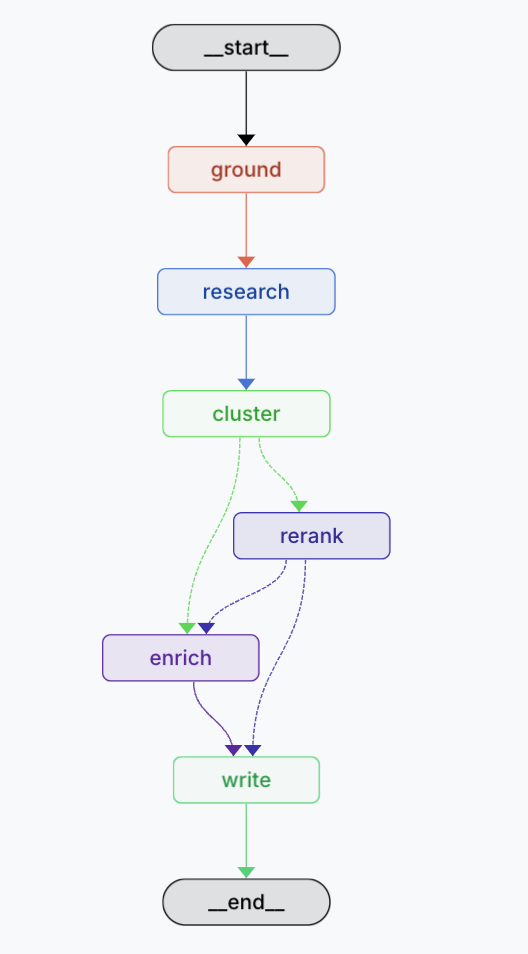
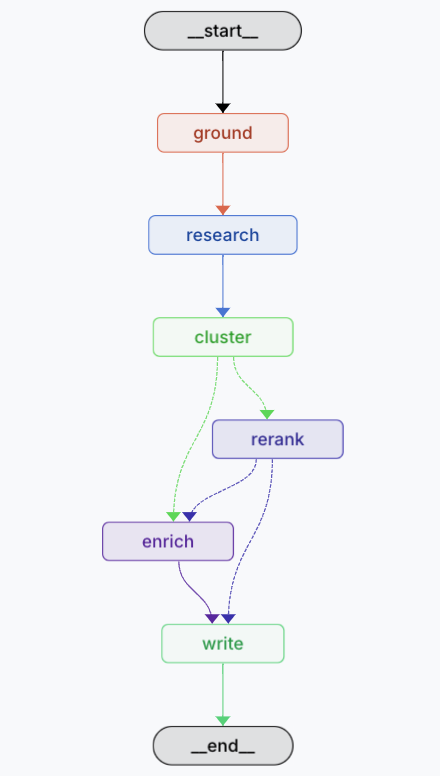
imporve tavily's search arguments description

diff --git a/src/company_researcher/utils/tavily_utils.py b/src/company_researcher/utils/tavily_utils.py
@@ -8,14 +8,14 @@ cfg = Config()
 
 # Define Tavily's arguments to tailor the search results
 class TavilyQuery(BaseModel):
-    query: str = Field(description="web search query")
-    search_depth: str = Field(description="the depth of the search, available options: 'basic', 'advanced'")
-    time_range:  Optional[str] = Field(default=None, description="time range back from the current date to filter results, available options: 'day', 'week', 'month', 'year'")
+    query: str = Field(description="Web search query")
+    search_depth: str = Field(description="The depth of the search, available options: 'basic', 'advanced'")
+    time_range:  Optional[str] = Field(default=None, description="(Optional) Filters results by time range, useful when looking for sources like magazines and articles. Available options: 'day', 'week', 'month', 'year'.")
     include_domains: Optional[List[str]] = Field(default=None,
-                                         description="list of domains to include in the research. Useful when trying to gather information from trusted and relevant domains")
+                                         description="List of domains to include in the research. Useful when trying to gather information from trusted and relevant domains")
 
 class TavilySearchInput(BaseModel):
-    sub_queries: List[TavilyQuery] = Field(description="set of web search queries that can be answered in isolation")
+    sub_queries: List[TavilyQuery] = Field(description="Set of web search queries that can be answered in isolation")
 
 
 class Tavily:

diff --git a/README.md b/README.md
@@ -5,9 +5,13 @@ This agent automates company research by leveraging Tavily to retrieve accurate,
 ## Key Steps
 
 1. **🔗 Grounding**: Establishes the website URL as a trusted baseline for all research efforts.
-2. **🔎 Searching**: Collects a wide range of relevant data from various online sources.  
+2. **🔎 Searching**: Collects a wide range of relevant data from various online sources, including **trusted sources like LinkedIn** to ensure accuracy and reliability
 3. **📊 Clustering**: Organizes the collected data into clusters, picking the most relevant one. This is especially handy for companies with similar names or limited online visibility.  
 4. **🚀 Extraction**: Enriches documents in the chosen cluster.  
 5. **📝 Generation**: Creates a detailed company report.  
 
 Our goal is to provide you with a practical tool that helps you effortlessly and efficiently gather meaningful insights on any company.
+
+## 🔍 Workflow Overview
+
+![Workflow Graph](graph.png)
